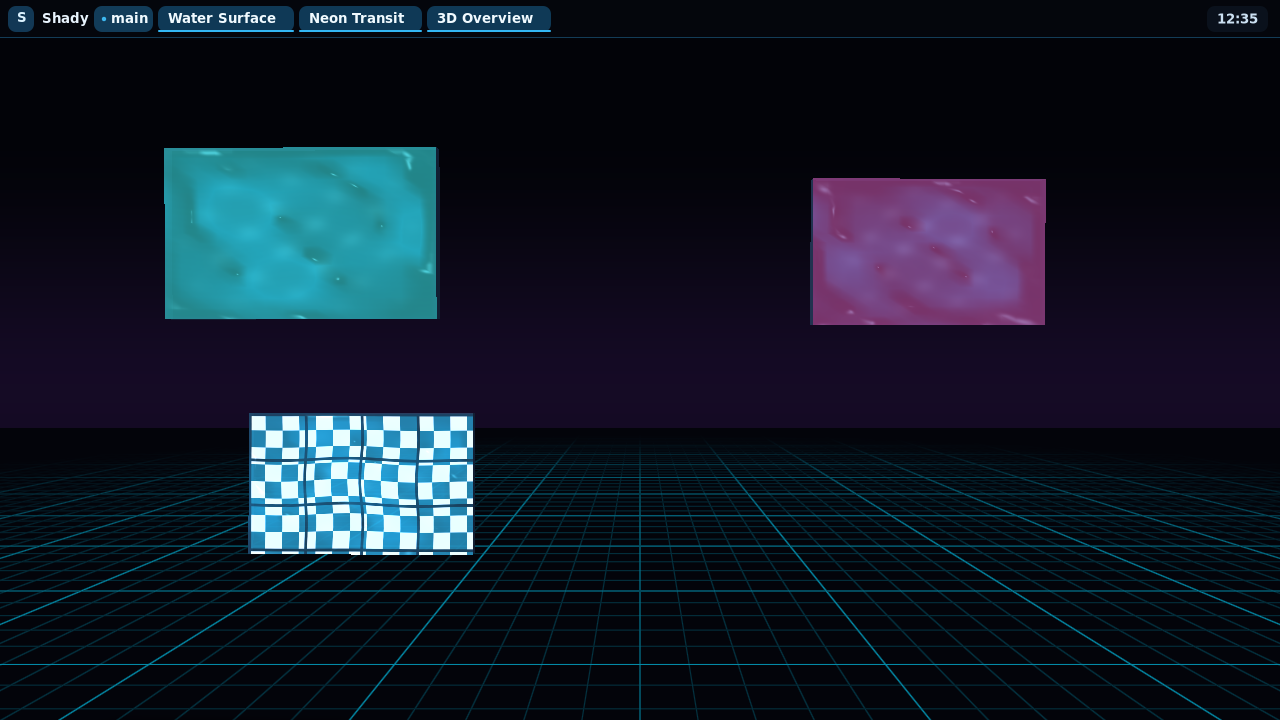
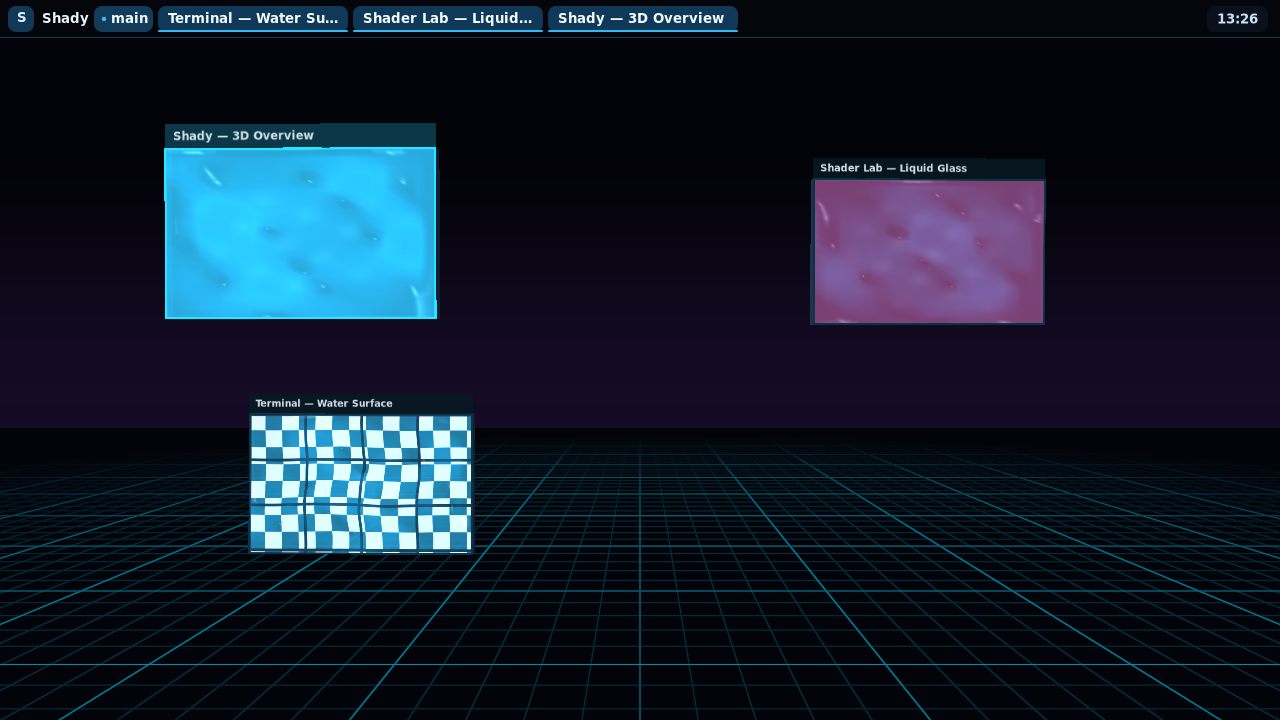
Refresh README screenshot

diff --git a/README.md b/README.md
@@ -2,7 +2,7 @@
 
 ![Shady Neon Transit desktop with native 3D overview and water-window effects](screenshots/Screenshot.png)
 
-*Neon Transit rice: standalone shell, native 3D overview, translucent windows, and shader-backed liquid surfaces.*
+*Neon Transit rice: standalone shell, native 3D overview, compositor title bars and borders, translucent windows, and shader-backed liquid surfaces.*
 
 Shady is an experimental **3D Wayland compositor** built on wlroots 0.20.2 and inspired by TinyWL. It can run as a conventional compositor through its wlroots scene-graph path, or turn normal xdg-shell applications into objects inside a shared perspective 3D world.
 
